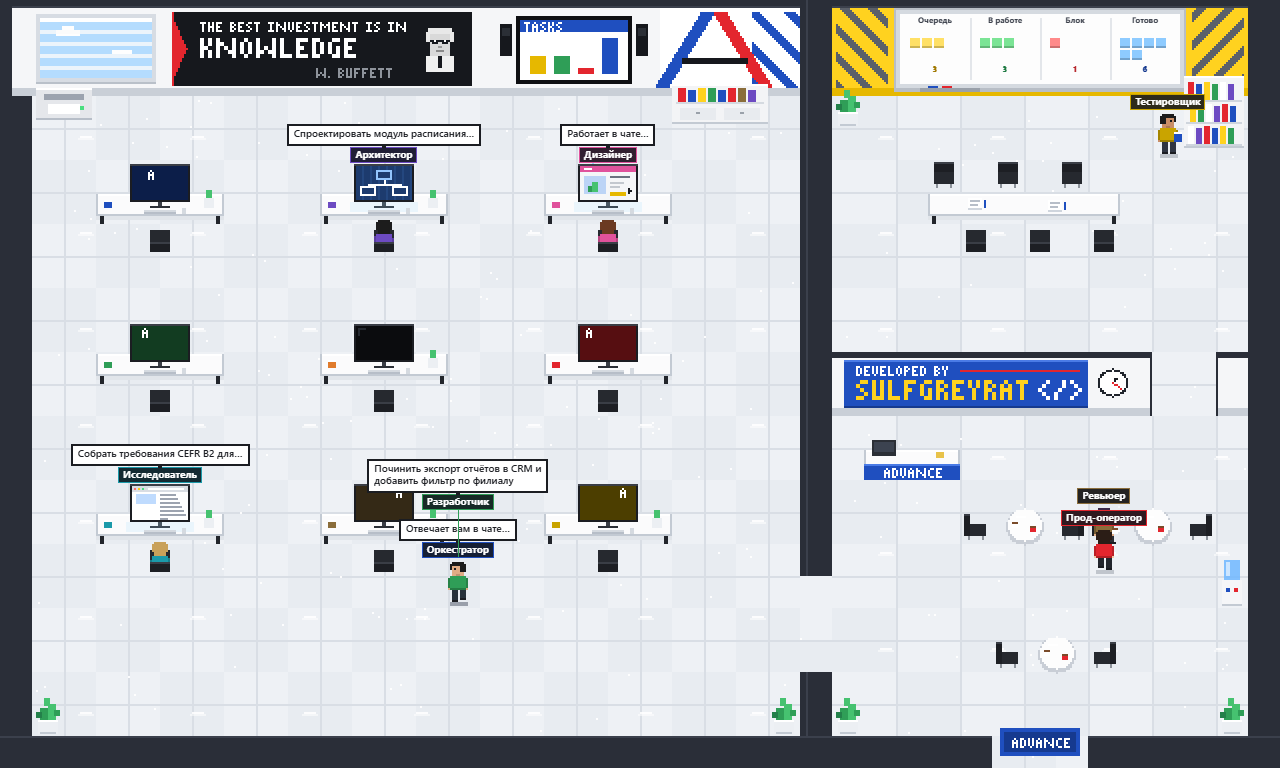
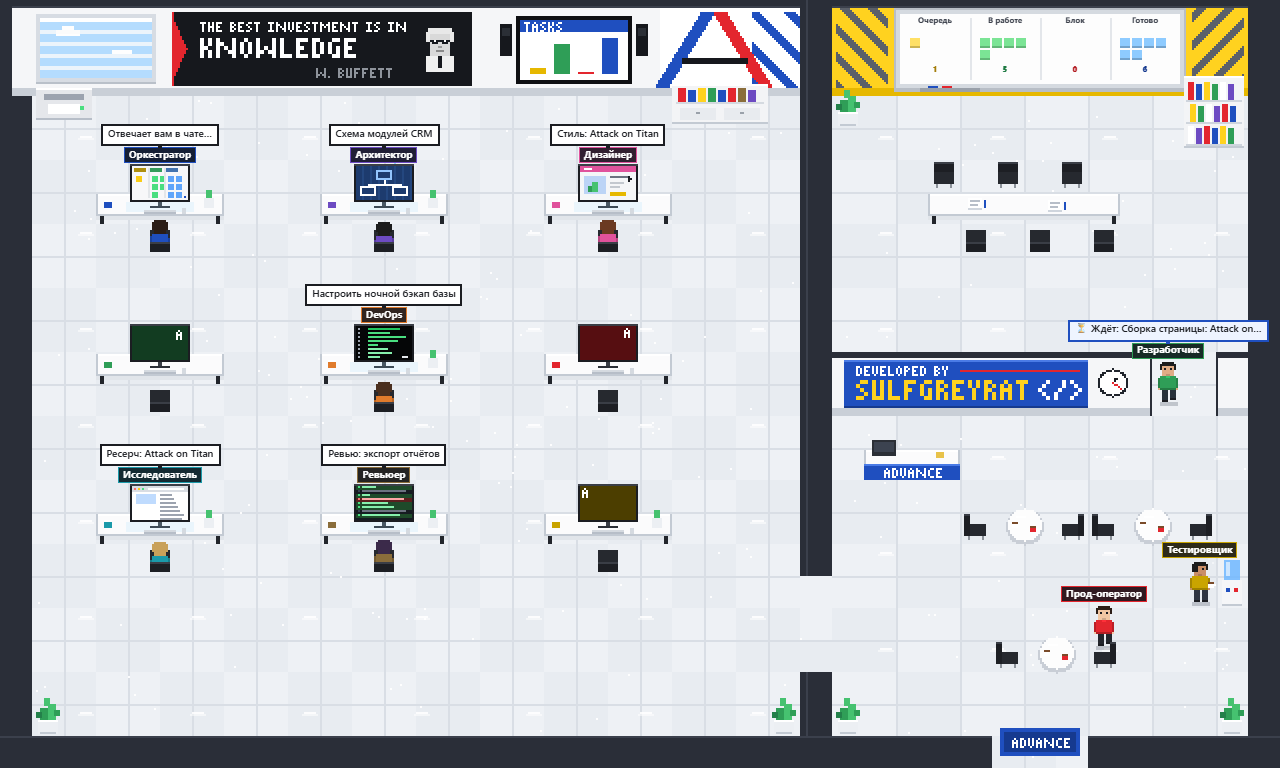
Team pipeline: orchestrator hands work to researcher, designer, developer
setup_agents.py now also writes orchestrator rules into the main SOUL.md:
multi-skill requests are split into a Kanban pipeline in a shared project
folder (researcher and designer in parallel, developer after both). The
office shows queued work as "Waiting" bubbles over idle agents, the README
explains how to give the team a task.

diff --git a/desktop-plugins/sulfgreyrat-office/plugin.js b/desktop-plugins/sulfgreyrat-office/plugin.js
@@ -1394,6 +1394,10 @@ function createScene(opts) {
       return { text: a.role.boss ? 'Отвечает вам в чате…' : 'Работает в чате…', kind: 'task' }
     }
     if (a.bubble) return a.bubble
+    const q = a.info && a.info.queued
+    if (q && q.title && a.state === 'idle') {
+      return { text: (q.status === 'ready' ? '▶ Сейчас возьмёт: ' : '⏳ Ждёт: ') + q.title, kind: 'queued' }
+    }
     return null
   }
 
@@ -1471,8 +1475,8 @@ function createScene(opts) {
       const bh = lines.length * (fs + 2 * dpr) + 6 * dpr
       const bx = Math.max(ox + 2, Math.min(cx - bw / 2, ox + W * s - bw - 2))
       const br = settle({ x: bx, y: lr.y - 4 * dpr - bh, w: bw, h: bh }, bh / 2 + pad)
-      const fill = bt.kind === 'done' ? '#e9fff1' : bt.kind === 'task' ? '#ffffff' : '#fffbe6'
-      const border = bt.kind === 'done' ? '#1e7a42' : bt.kind === 'task' ? '#1b1d22' : '#a07800'
+      const fill = { done: '#e9fff1', task: '#ffffff', queued: '#eef4ff' }[bt.kind] || '#fffbe6'
+      const border = { done: '#1e7a42', task: '#1b1d22', queued: '#1f4fbf' }[bt.kind] || '#a07800'
       box(ctx, br.x, br.y, bw, bh, fill, border, Math.max(1, Math.round(1.5 * dpr)))
       ctx.fillStyle = border
       ctx.fillRect(Math.round(cx - 2 * dpr), Math.round(br.y + bh), Math.round(4 * dpr), Math.round(Math.max(3 * dpr, lr.y - br.y - bh)))
@@ -1492,6 +1496,9 @@ function createScene(opts) {
         [st, 600, a.state === 'busy' ? '#6dffb0' : a.state === 'idle' ? '#ffe066' : '#9aa1aa'],
       ]
       if (info.task && info.task.title) rows.push(['Задача: ' + info.task.title, 500, '#dfe3ea'])
+      else if (info.queued && info.queued.title) {
+        rows.push([(info.queued.status === 'ready' ? 'Сейчас возьмёт: ' : 'Ждёт: ') + info.queued.title, 500, '#b9d1ff'])
+      }
       rows.push(['Токены: ' + compact(info.tokens_total || 0) + '  ·  $' + Number(info.cost_total || 0).toFixed(2), 500, '#aeb5bf'])
       ctx.font = font(fs, 600)
       const maxW = 300 * dpr
@@ -1710,7 +1717,7 @@ function Legend({ snapshot }) {
     className: 'flex flex-wrap gap-1.5',
     children: ps.map((p) => {
       const r = roleOf(p.profile)
-      const st = p.busy ? 'работает' : p.online ? 'свободен' : 'не на смене'
+      const st = p.busy ? 'работает' : !p.online ? 'не на смене' : p.queued ? 'ждёт задачу' : 'свободен'
       const title = p.task && p.task.title ? p.task.title : undefined
       return jsxs(
         'div',

diff --git a/tests/harness.html b/tests/harness.html
@@ -26,19 +26,19 @@ log('unreachable: ' + (bad.join(' ') || 'none'))
 const hour = q.get('hour')
 const now = hour == null ? undefined : () => { const d = new Date(); d.setHours(Number(hour), 20, 0, 0); return d }
 const P = (profile, over) => ({ profile, online: true, busy: false, task: null, just_done: null, active_sessions: 0, tokens_total: 12345, cost_total: 0.42, ...over })
-const board = { queue: 3, running: 3, blocked: 1, review: 0, done_today: 6 }
+const board = { queue: 1, running: 5, blocked: 0, review: 0, done_today: 6 }
 const names = ['default', 'architect', 'designer', 'developer', 'devops', 'prod-operator', 'researcher', 'reviewer', 'tester']
 const allIdle = names.map((n) => P(n))
 const mix = [
   P('default', { busy: true, tokens_total: 1840000, cost_total: 3.12 }),
-  P('architect', { busy: true, task: { id: 't0', title: 'Спроектировать модуль расписания групп' } }),
-  P('designer', { busy: true, active_sessions: 1 }),
-  P('developer', { busy: true, task: { id: 't1', title: 'Починить экспорт отчётов в CRM и добавить фильтр по филиалу' } }),
-  P('devops', { online: false }),
+  P('architect', { busy: true, task: { id: 't0', title: 'Схема модулей CRM' } }),
+  P('designer', { busy: true, task: { id: 't1', title: 'Стиль: Attack on Titan' } }),
+  P('developer', { queued: { id: 't2', status: 'todo', title: 'Сборка страницы: Attack on Titan' } }),
+  P('devops', { busy: true, task: { id: 't3', title: 'Настроить ночной бэкап базы' } }),
   P('prod-operator'),
-  P('researcher', { busy: true, task: { id: 't2', title: 'Собрать требования CEFR B2 для мок-экзамена' } }),
-  P('reviewer'),
-  P('tester', { just_done: { id: 'd1', title: 'Прогнать тесты плейсмента' } }),
+  P('researcher', { busy: true, task: { id: 't4', title: 'Ресерч: Attack on Titan' } }),
+  P('reviewer', { busy: true, task: { id: 't5', title: 'Ревью: экспорт отчётов' } }),
+  P('tester', { just_done: { id: 'd1', title: 'Проверить вёрстку лендинга' } }),
 ]
 const scene = createScene({ now })
 const step = (sec) => { for (let t = 0; t < sec; t += 1 / 15) scene.update(1 / 15) }

diff --git a/setup_agents.py b/setup_agents.py
@@ -4,6 +4,7 @@
     python setup_agents.py --dry-run   # только показать, что будет сделано
     python setup_agents.py --no-soul   # не дописывать роль в SOUL.md профилей
     python setup_agents.py --no-alias  # не создавать команды-обёртки (architect, tester, ...)
+    python setup_agents.py --projects-dir D:/Projects   # куда команда складывает результаты
 
 Что делает:
   1. Для каждой роли создаёт профиль Hermes
@@ -16,6 +17,11 @@
      (`kanban.orchestrator_profile: default` в config.yaml, с бэкапом).
   4. Включает оркестратору инструменты Kanban (`toolsets: [hermes-cli, kanban]`),
      чтобы он сам создавал карточки и раздавал задачи.
+  5. Дописывает в SOUL.md основного профиля правила оркестратора: крупные задачи
+     («сделай страницу с ресерчем в стиле X») раздавать команде через kanban_create —
+     researcher и designer параллельно, developer после них — в общей папке проекта.
+     Папка проектов: --projects-dir <путь>, иначе terminal.cwd из config.yaml,
+     иначе ~/hermes-projects.
 
 Описания профилей важны: по ним оркестратор Kanban решает, кому отдать задачу.
 """
@@ -57,6 +63,45 @@ AGENTS = [
      "Ты тестировщик. Проверяй работу запуском и тестами, ищи баги и граничные случаи, "
      "фиксируй результат (что запускал, что получил) в итоговом отчёте."),
 ]
+
+ORCH_BLOCK = """<!-- sulfgreyrat-office:orchestrator -->
+## Ты — Оркестратор команды
+
+У тебя есть команда агентов — профили Hermes:
+- researcher — исследователь: веб-поиск, факты, проверенные ссылки на картинки;
+- designer — дизайнер: стиль, палитра, шрифты, раскладка;
+- developer — разработчик: код, HTML/CSS/JS, проверка запуском;
+- tester, reviewer, architect, devops, prod-operator — по своим ролям.
+
+Пользователь следит за их работой в офисе (плагин SulfGreyrat's office), поэтому
+крупные задачи раздавай команде, а не делай сам.
+
+**Когда раздавать.** Пользователь просит СДЕЛАТЬ результат, для которого нужно несколько
+навыков: страницу, сайт, лендинг, презентацию или отчёт с ресерчем и оформлением,
+небольшое приложение. Вопросы, короткие ответы, мелкие правки и всё, что пользователь
+просит сделать самому или «быстро», — делай сам.
+
+**Как раздавать — только через kanban_create** (не office assign: там нет зависимостей
+и общей папки):
+1. Заведи папку проекта `{projects}/<латинский-slug>` (например `{projects}/attack-on-titan`).
+   Всем задачам ставь `workspace_kind="dir"` и `workspace_path` = эта папка — команда
+   работает в одном месте, результат легко найти.
+2. Типовой конвейер для «страницы с ресерчем в стиле X»:
+   - researcher, «Ресерч: X» — факты (сюжет, мир, персонажи, интересное) и 10–15
+     прямых ссылок на картинки, каждую проверить, что открывается; сохранить `research.md`.
+   - designer, «Стиль: X» — палитра, шрифты Google Fonts, мотивы и раскладка в духе X;
+     сохранить `style.md`. Идёт параллельно с ресерчем, без parents.
+   - developer, «Сборка страницы: X», `parents` = [id ресерча, id стиля] — собрать
+     `index.html` по `research.md` и `style.md`, картинки брать из `research.md`,
+     открыть файл и проверить, что всё на месте.
+   Для других задач подбирай роли по смыслу: 2–4 задачи, не больше; порядок — через parents.
+3. В `body` каждой задачи — полное ТЗ: что сделать, какие файлы прочитать, какой файл
+   сохранить, критерии готовности. Исполнитель видит только `body`.
+4. Сразу ответь пользователю коротко: кто что делает, где будет результат
+   (`{projects}/<slug>/index.html`) и что за работой можно следить в офисе и в Kanban.
+   Саму работу не выполняй.
+<!-- /sulfgreyrat-office:orchestrator -->
+"""
 
 BEGIN = "<!-- sulfgreyrat-office:role -->"
 END = "<!-- /sulfgreyrat-office:role -->"
@@ -144,6 +189,40 @@ def enable_kanban_tools(cfg: Path, dry: bool) -> str:
     return "toolsets: [hermes-cli, kanban] — оркестратор может раздавать задачи (бэкап " + backup.name + ")"
 
 
+def projects_dir(home: Path) -> str:
+    if "--projects-dir" in sys.argv:
+        i = sys.argv.index("--projects-dir")
+        if i + 1 < len(sys.argv):
+            return Path(sys.argv[i + 1]).expanduser().resolve().as_posix()
+    try:
+        import yaml
+        cwd = ((yaml.safe_load((home / "config.yaml").read_text(encoding="utf-8")) or {})
+               .get("terminal") or {}).get("cwd")
+        if cwd and Path(str(cwd)).expanduser().is_absolute():
+            return Path(str(cwd)).expanduser().as_posix()
+    except Exception:
+        pass
+    return (Path.home() / "hermes-projects").as_posix()
+
+
+def write_orchestrator(soul: Path, projects: str, dry: bool) -> str:
+    begin = "<!-- sulfgreyrat-office:orchestrator -->"
+    end = "<!-- /sulfgreyrat-office:orchestrator -->"
+    block = ORCH_BLOCK.replace("{projects}", projects)
+    text = soul.read_text(encoding="utf-8") if soul.is_file() else ""
+    if begin in text:
+        new = re.sub(re.escape(begin) + r".*?" + re.escape(end) + r"\n?", lambda _m: block, text, flags=re.S)
+        verdict = "правила оркестратора обновлены" if new != text else "правила оркестратора уже на месте"
+    else:
+        new = text.rstrip("\n") + ("\n\n" if text.strip() else "") + block
+        verdict = "правила оркестратора дописаны в SOUL.md"
+    if not dry and new != text:
+        if soul.is_file():
+            shutil.copy2(soul, soul.with_name(soul.name + ".bak-agents-" + time.strftime("%Y%m%d-%H%M%S")))
+        soul.write_text(new, encoding="utf-8")
+    return verdict + f" (папка проектов: {projects})"
+
+
 def main() -> None:
     dry = "--dry-run" in sys.argv
     soul = "--no-soul" not in sys.argv
@@ -168,6 +247,9 @@ def main() -> None:
     print("\n[kanban]")
     print("  ", pin_orchestrator(home / "config.yaml", dry))
     print("  ", enable_kanban_tools(home / "config.yaml", dry))
+
+    print("\n[orchestrator]")
+    print("  ", write_orchestrator(home / "SOUL.md", projects_dir(home), dry))
     print("\nГотово. Дальше: включите Kanban в Hermes Desktop (Settings > Plugins) и держите "
           "gateway запущенным — диспетчер задач живёт в нём.")
 

diff --git a/plugins/sulfgreyrat-office/dashboard/plugin_api.py b/plugins/sulfgreyrat-office/dashboard/plugin_api.py
@@ -235,6 +235,16 @@ def _board(now: float) -> Dict[str, Any]:
         just_done.setdefault(str(assignee), {
             "id": tid, "title": str(title or "")[:160], "completed_at": completed})
 
+    # следующая задача агента: ready — возьмёт вот-вот, todo — ждёт родительские
+    queued: Dict[str, Dict[str, Any]] = {}
+    for tid, assignee, title, status in _query(
+            path, "SELECT id, assignee, title, status FROM tasks "
+                  "WHERE status IN ('ready', 'todo', 'scheduled') AND assignee IS NOT NULL "
+                  "ORDER BY CASE status WHEN 'ready' THEN 0 ELSE 1 END, "
+                  "priority DESC, created_at"):
+        queued.setdefault(str(assignee), {
+            "id": tid, "title": str(title or "")[:160], "status": status})
+
     return {
         "queue": sum(counts.get(s, 0) for s in ("triage", "todo", "scheduled", "ready")),
         "running": counts.get("running", 0),
@@ -243,6 +253,7 @@ def _board(now: float) -> Dict[str, Any]:
         "done_today": int(done_today[0][0]) if done_today else 0,
         "_running": running,
         "_just_done": just_done,
+        "_queued": queued,
     }
 
 
@@ -258,6 +269,7 @@ def _collect() -> Dict[str, Any]:
     board = _board(now)
     running = board.pop("_running")
     just_done = board.pop("_just_done")
+    queued = board.pop("_queued")
 
     profiles = []
     for name in _discover_profiles():
@@ -270,6 +282,7 @@ def _collect() -> Dict[str, Any]:
             "busy": busy,
             "task": task,
             "just_done": None if busy else just_done.get(name),
+            "queued": None if busy else queued.get(name),
             **stats,
         })
 

diff --git a/tests/capture.py b/tests/capture.py
@@ -48,7 +48,7 @@ def gif(query, out, frames, w=1280, h=768, duration=67):
 
 
 if __name__ == "__main__":
-    shot("s=walk&t=16&hour=13", "office-day.png")
+    shot("s=walk&t=40&hour=13", "office-day.png")
     shot("s=idle&t=8&hour=22", "office-night.png")
-    shot("s=mix&t=3&hour=13&hover=developer", "hover-card.png", crop=(40, 280, 700, 580))
+    shot("s=mix&t=3&hour=13&hover=researcher", "hover-card.png", crop=(40, 440, 700, 740))
     gif("s=gif&t=0.3&hour=13&skip=2", "office.gif", 110, duration=90)

diff --git a/README.md b/README.md
@@ -9,7 +9,7 @@
 
 ![SulfGreyrat's office](docs/office.gif)
 
-[Установка](#установка) · [Команда агентов](#команда-агентов) · [Как пользоваться](#как-пользоваться) · [Как это устроено](#как-это-устроено)
+[Установка](#установка) · [Команда агентов](#команда-агентов) · [Как дать задачу команде](#как-дать-задачу-команде) · [Как пользоваться](#как-пользоваться) · [Как это устроено](#как-это-устроено)
 
 </div>
 
@@ -122,6 +122,11 @@ python setup_agents.py
    раздавать задачи. Если у вас уже есть свой список `toolsets`, скрипт его не трогает
    и подскажет добавить `kanban` вручную.
 
+5. Дописывает в `SOUL.md` основного профиля правила оркестратора (см.
+   [Как дать задачу команде](#как-дать-задачу-команде)). Папка, куда команда складывает
+   результаты: `--projects-dir <путь>`, иначе `terminal.cwd` из `config.yaml`, иначе
+   `~/hermes-projects`.
+
 Все изменения конфигов делаются с бэкапом рядом. Флаг `--no-alias` отключает создание
 команд-обёрток (`architect`, `tester`, …).
 
@@ -134,20 +139,47 @@ python setup_agents.py
 Модель у всех агентов будет та же, что у основного профиля; поменять её можно в
 `config.yaml` конкретного профиля (`<HERMES_HOME>/profiles/<имя>/config.yaml`).
 
+## Как дать задачу команде
+
+Просто напишите основному агенту в чате Desktop или в Telegram, например:
+
+> сделай мне html-страничку с ресерчем по «Атаке титанов», оформленную в стиле этого
+> аниме, и побольше картинок
+
+Оркестратор не делает такую работу сам, а раскладывает её на конвейер Kanban в общей
+папке проекта:
+
+| Кто | Задача | Результат |
+|---|---|---|
+| Исследователь | «Ресерч: Attack on Titan» — факты и проверенные ссылки на картинки | `research.md` |
+| Дизайнер | «Стиль: Attack on Titan» — палитра, шрифты, мотивы (параллельно с ресерчем) | `style.md` |
+| Разработчик | «Сборка страницы: Attack on Titan» — ждёт двух предыдущих, собирает страницу | `index.html` |
+
+В офисе это видно так: Оркестратор за своим ПК (на экране мини-доска задач), потом
+исследователь и дизайнер садятся за ПК — у одного браузер, у другого макет, — а
+разработчик стоит в холле с пузырём «⏳ Ждёт: Сборка страницы…». Когда они закончат, он
+сядет за ПК и начнёт верстать. Результат — `<папка проектов>/<проект>/index.html`.
+
+Вопросы, короткие ответы и мелкие правки Оркестратор делает сам. Если хотите, чтобы он
+и крупное сделал сам, так и скажите: «сделай сам». Учтите: каждый агент — отдельная
+сессия модели, поэтому командная работа расходует больше токенов, чем один агент.
+
 ## Как пользоваться
 
 | В офисе | Что это значит |
 |---|---|
 | Сидит за своим ПК, на экране идёт работа | Работает прямо сейчас: активная сессия за последние 90 с или задача «В работе» в Kanban |
 | Пьёт чай в холле, сидит в переговорной, смотрит на доску; на его мониторе заставка | На смене и свободен: gateway запущен, диспетчер может выдать задачу |
+| Свободен, но над головой «⏳ Ждёт: …» или «▶ Сейчас возьмёт: …» | У него есть задача в очереди: ждёт, пока закончат предыдущие, или диспетчер вот-вот её выдаст |
 | Никого нет, мониторы погашены | Gateway выключен — все ушли домой |
 
 Чтобы в офисе закипела работа:
 
 - **Kanban** — создайте карточку и назначьте исполнителя. Диспетчер сам посадит агента
   за его ПК, а по завершении над ним появится «✓ Готово».
-- **Оркестратор** — напишите основному агенту (в Desktop или в Telegram): «разбей и раздай
-  по команде: …». Он создаст карточки для нужных ролей.
+- **Оркестратор** — напишите основному агенту (в Desktop или в Telegram), что нужно
+  сделать, — крупную задачу он сам разложит по команде
+  (см. [Как дать задачу команде](#как-дать-задачу-команде)).
 - **Чат с профилем** — откройте сессию с нужным профилем, и он сядет работать.
 
 Внизу страницы — счётчики (на смене, работают, очередь, готово сегодня, токены,
